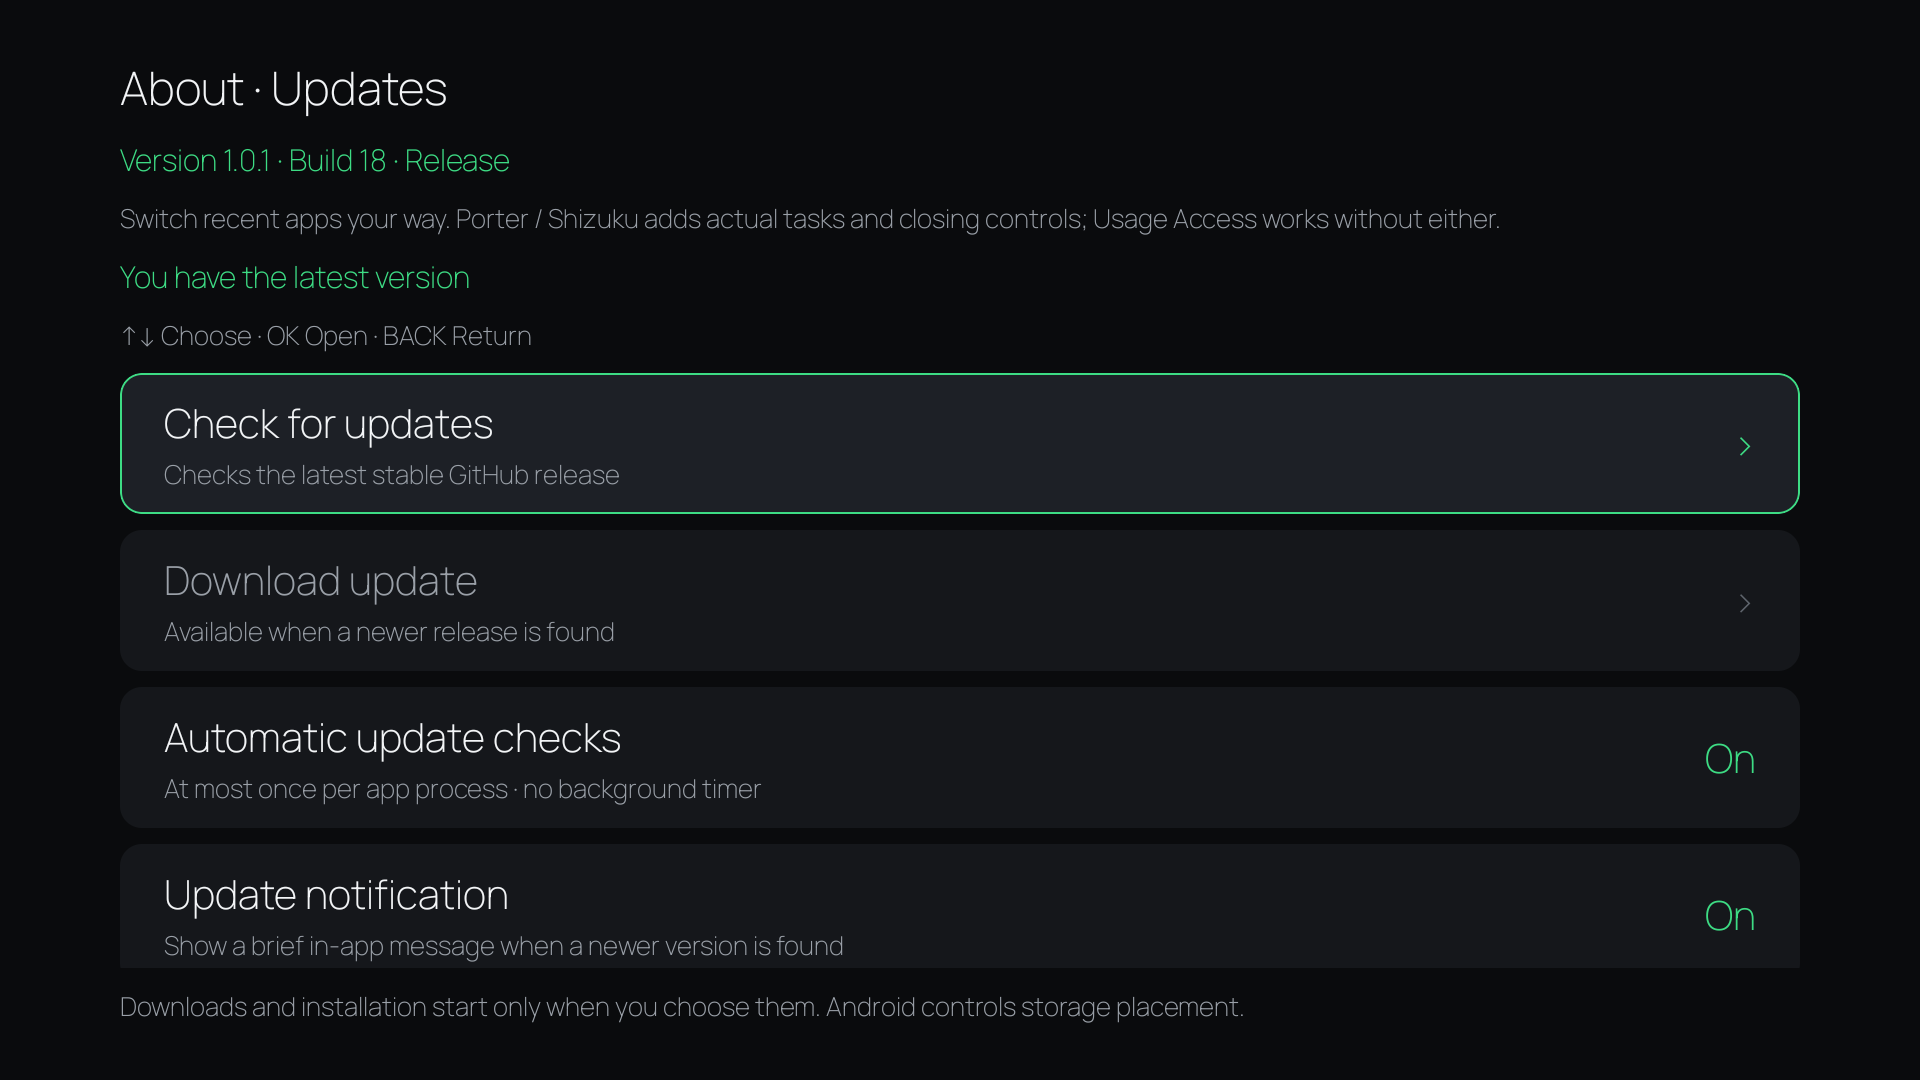
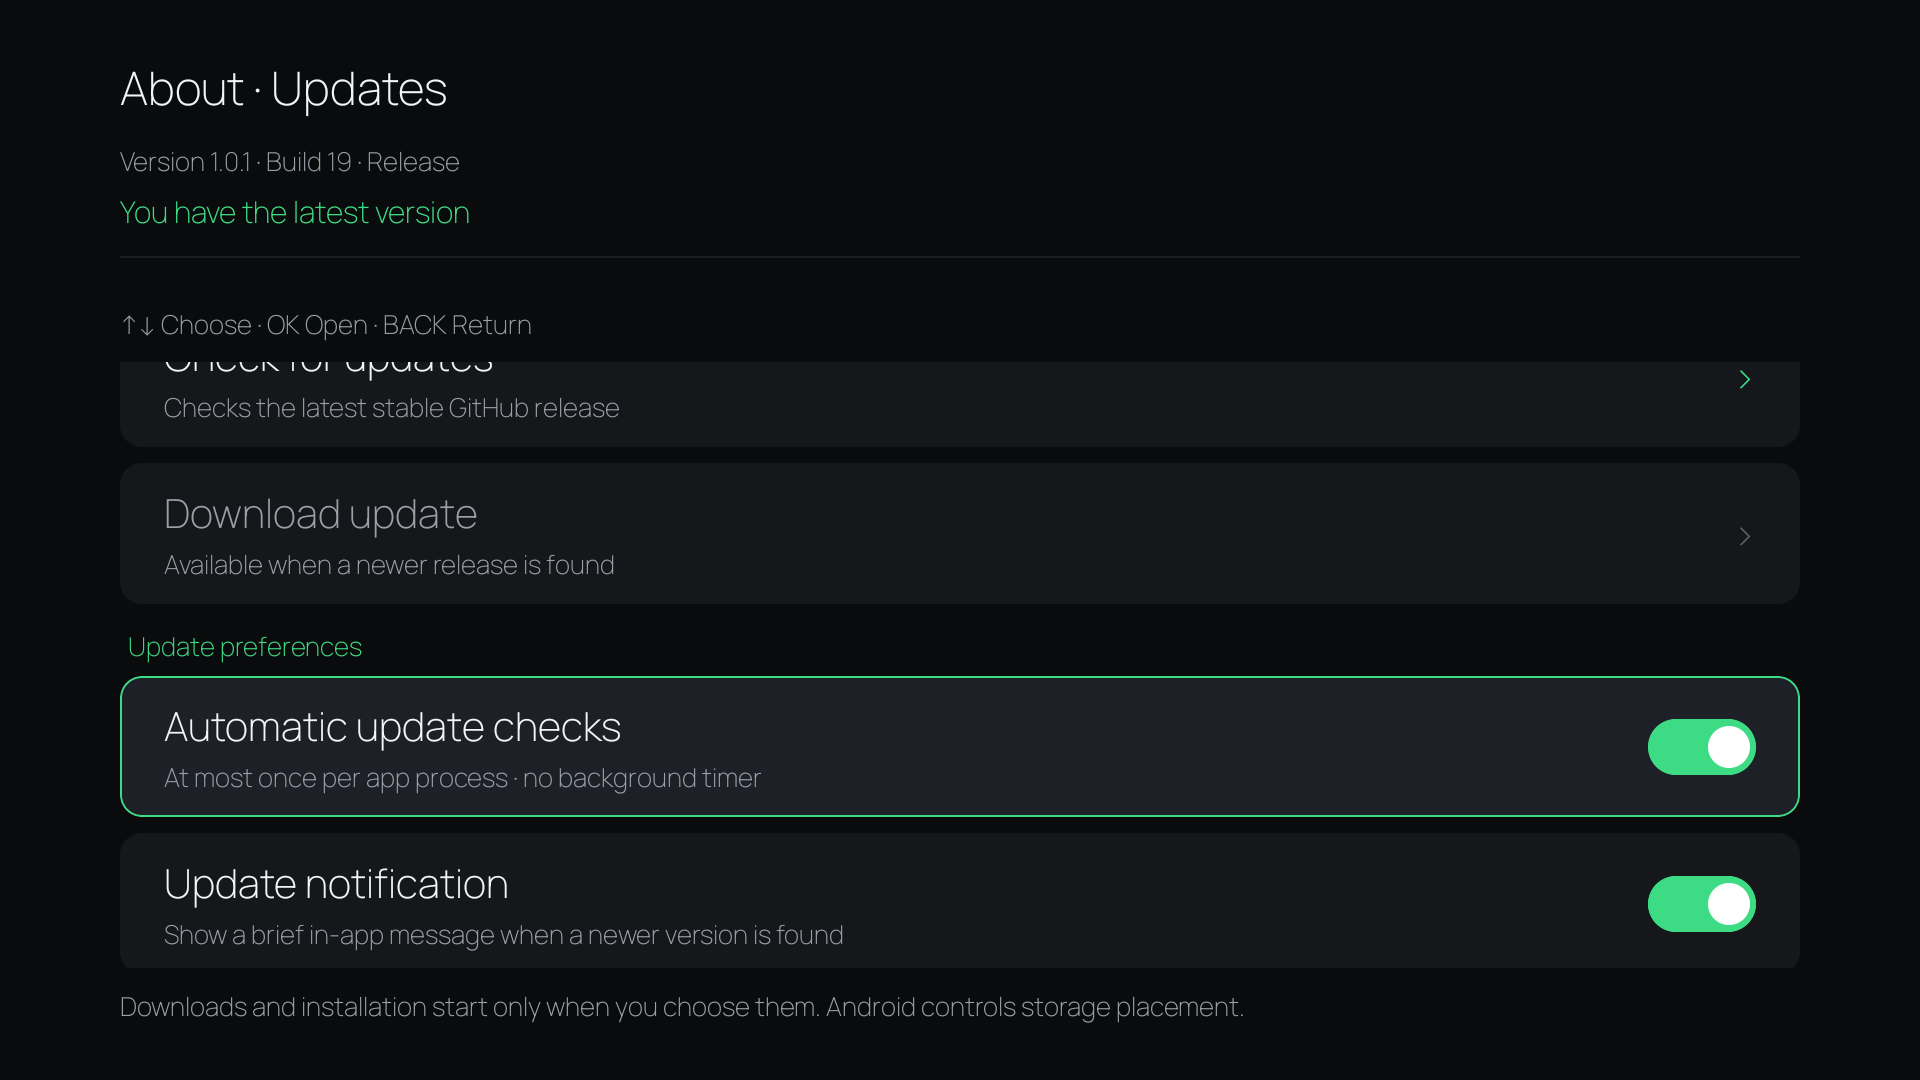
Refresh Updates screenshot for build 19

diff --git a/README.md b/README.md
@@ -12,6 +12,13 @@ Choose a starting look, then adjust the details to suit your remote and your TV.
 
 Version 1.0.1 adds **About → Updates**, with optional startup checks and optional in-app update messages. Downloads and installation start only when you choose them. See [update settings and installation](docs/UPDATES.md).
 
+<details>
+<summary>View update settings</summary>
+
+![Update preferences in 1.0.1 Build 19](docs/images/updates-1.0.1.png)
+
+</details>
+
 ## Choose your everyday look
 
 Four presets, shown with the same selected app and background. Click a picture to view it at full size.
